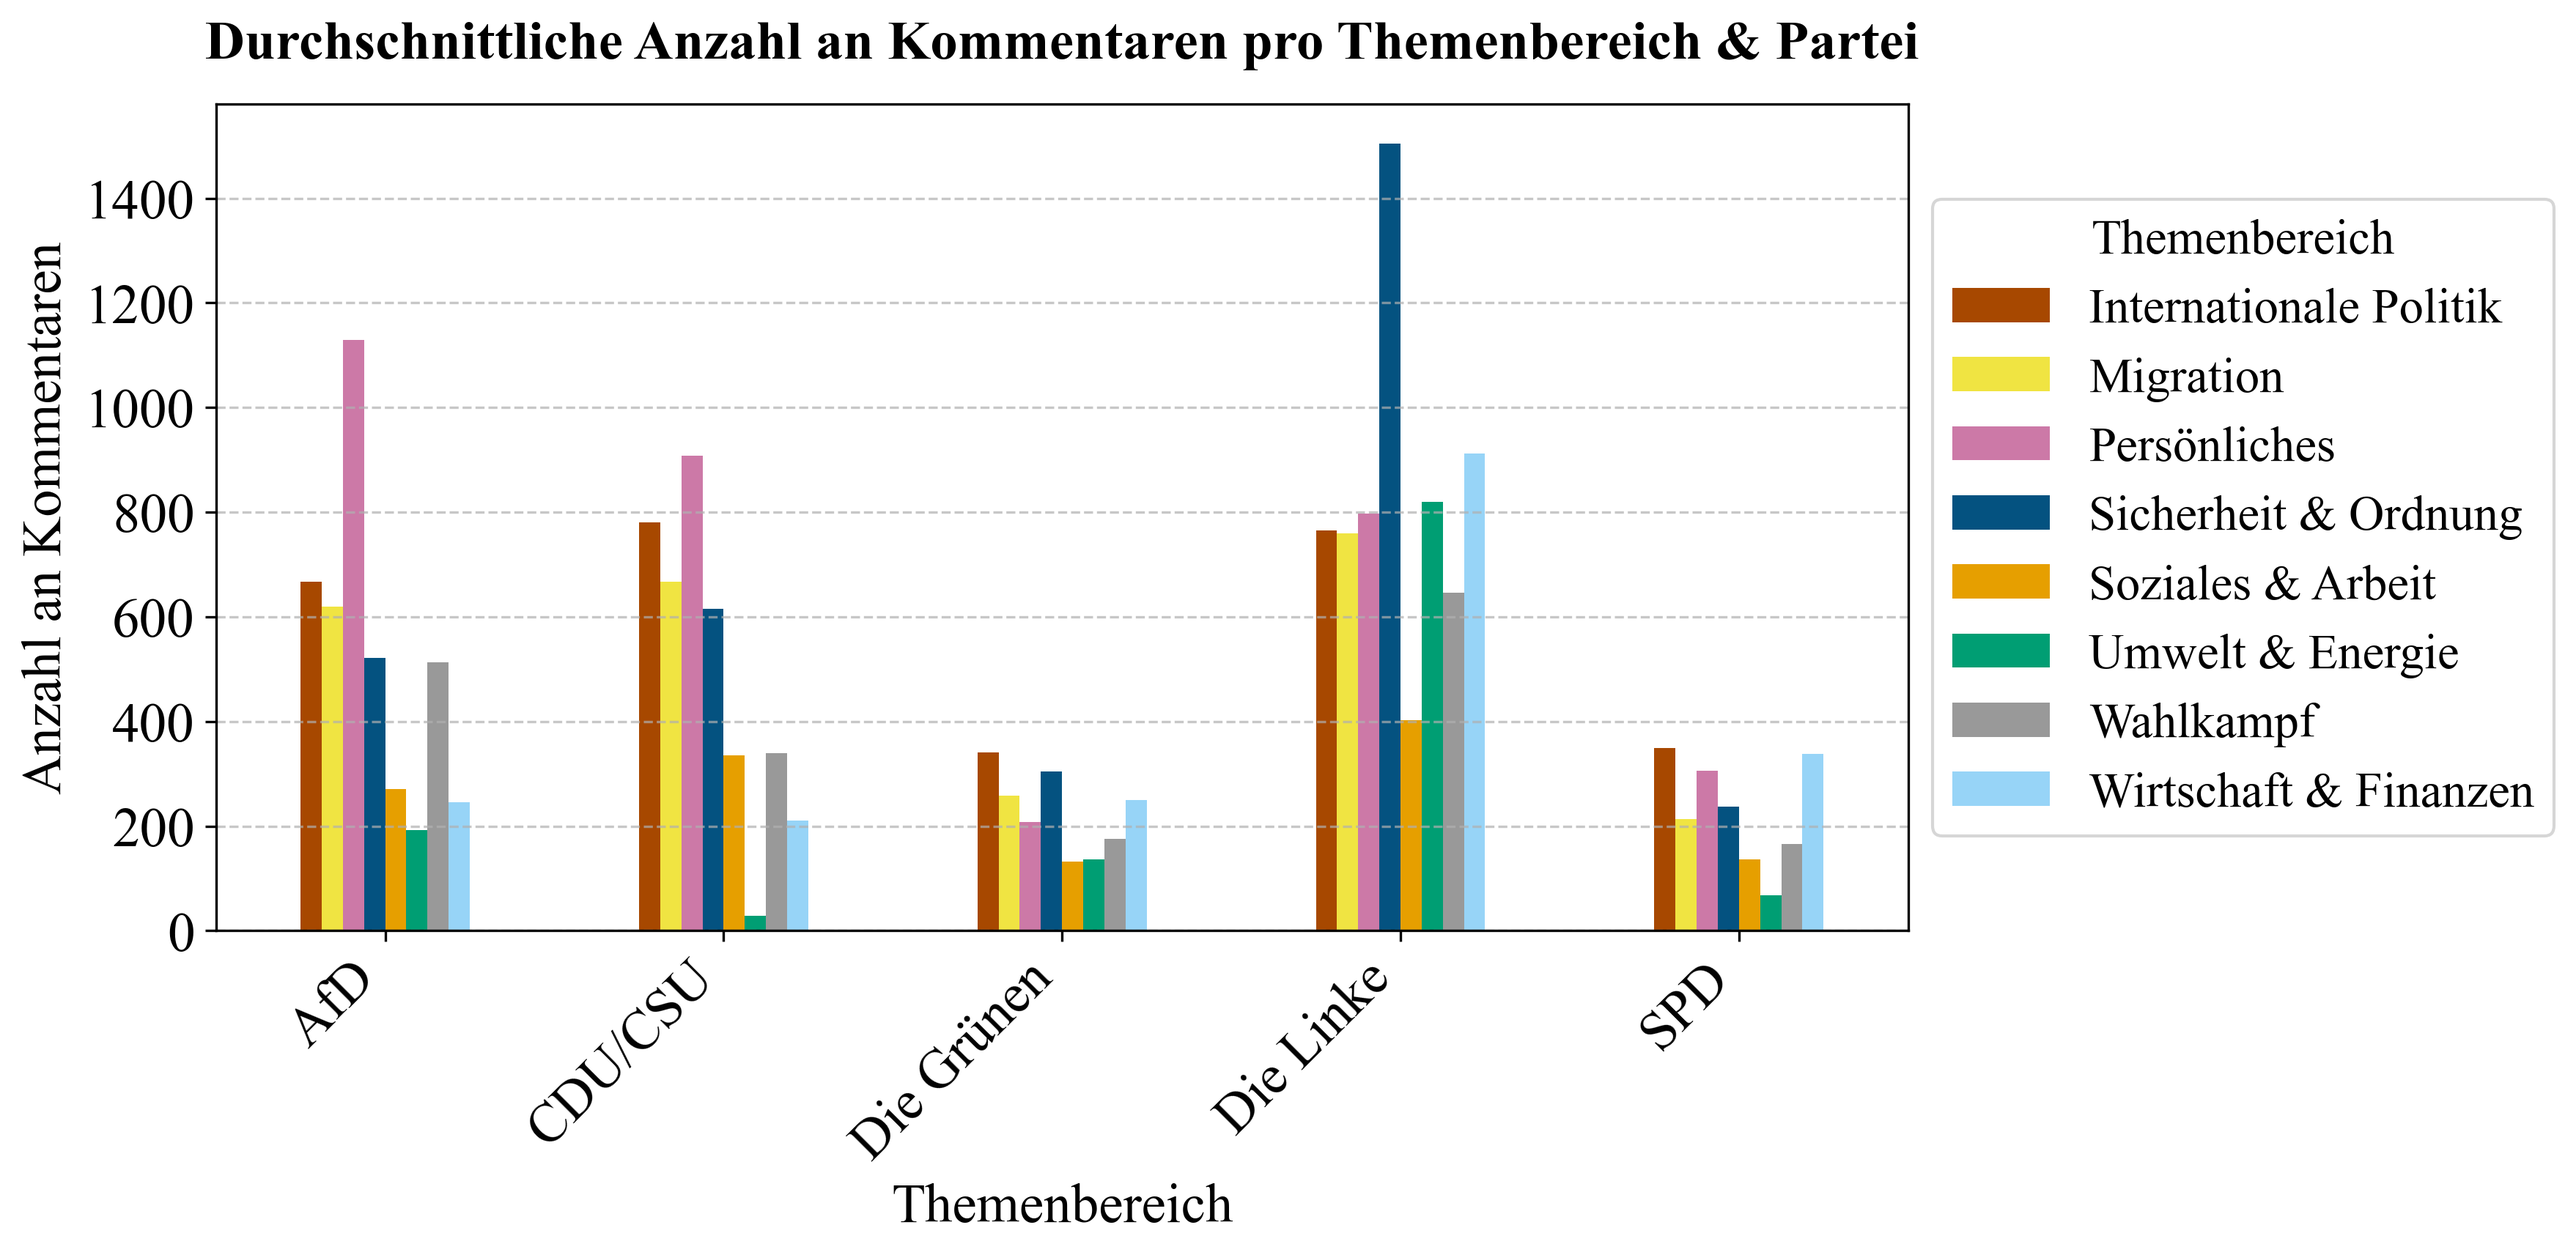
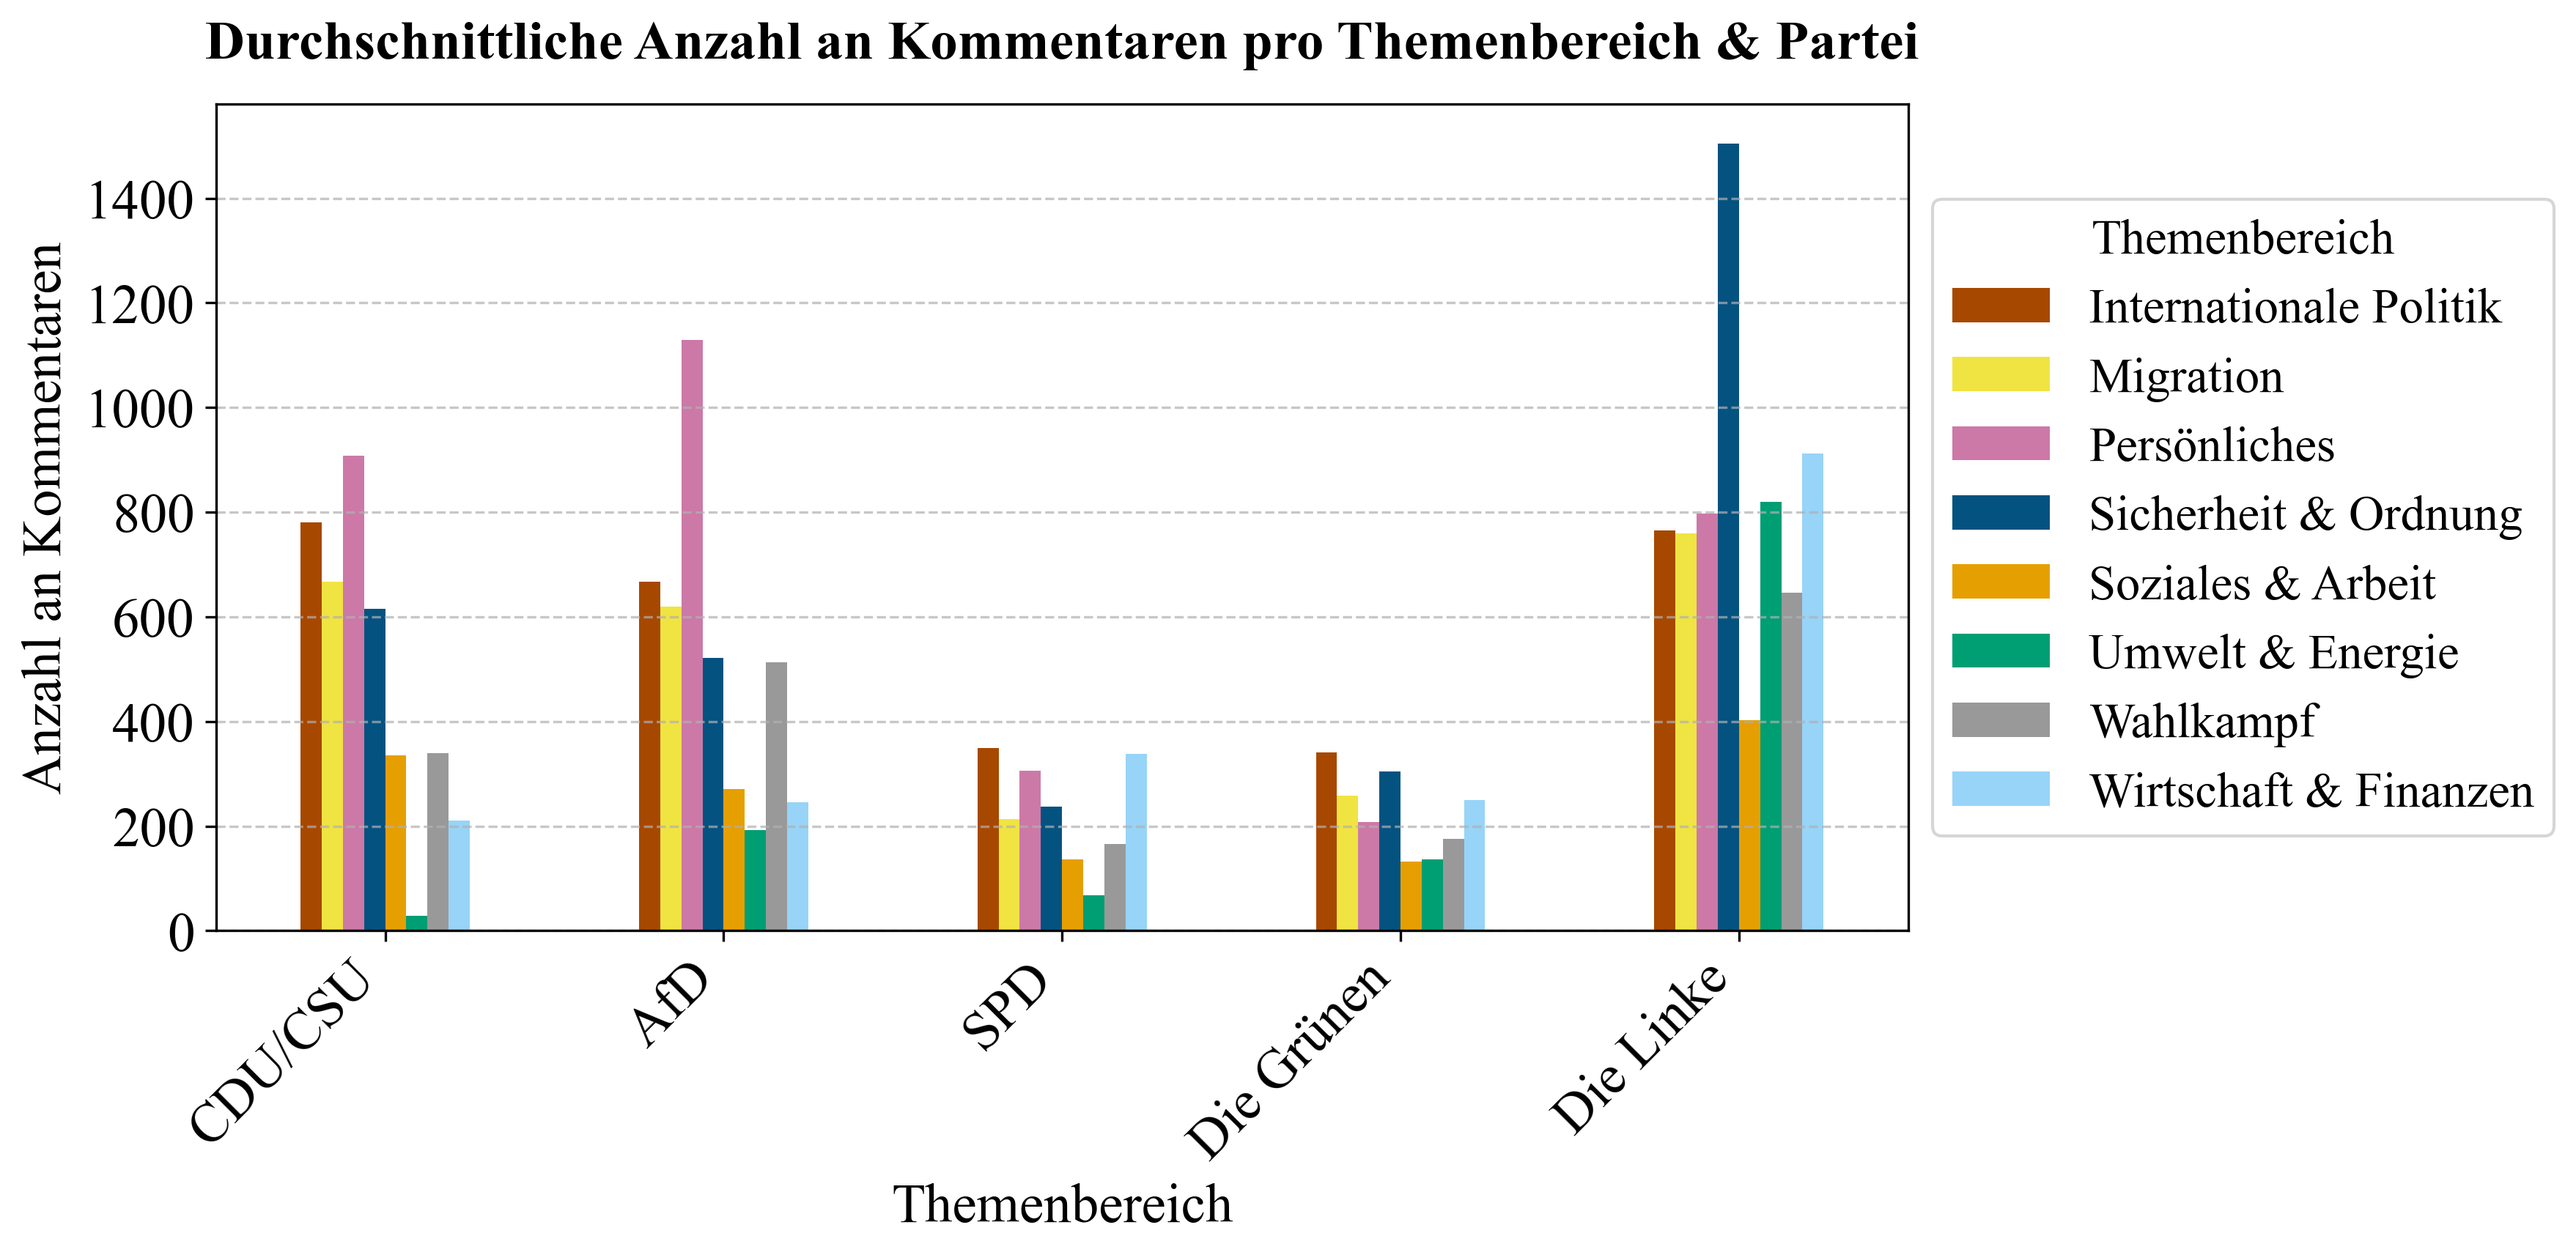
Updated code and additional plots

diff --git a/scripts/evaluation/sentiment_evaluation.py b/scripts/evaluation/sentiment_evaluation.py
@@ -149,11 +149,11 @@ def plot_heatmap(data, title, output_dir, filename):
     
     # labels for parties
     party_labels = {
-        "afd": "AfD",
         "cdu_csu": "CDU/CSU",
+        "afd": "AfD",
+        "spd": "SPD",
         "grüne": "Die Grünen",
-        "linke": "Die Linke",
-        "spd": "SPD"
+        "linke": "Die Linke"
     }
     data = data.rename(index=party_labels)
 
@@ -202,6 +202,9 @@ def analyze_sentiment_by_topic(df_sentiment_topic, output_dir):
         .unstack(fill_value=np.nan)
         .round(3)
     )
+    desired_order = ["cdu_csu", "afd", "spd", "grüne", "linke"]
+    sentiment_final = sentiment_final.reindex(desired_order)
+
     print("Mean final sentiment by topic and party:")
     print(sentiment_final)
     # create heatmap for final sentiment
@@ -215,6 +218,7 @@ def analyze_sentiment_by_topic(df_sentiment_topic, output_dir):
         .unstack(fill_value=np.nan)
         .round(3)
     )
+    sentiment_text = sentiment_text.reindex(desired_order)
 
     print("Text sentiment by topic and party:")
     print(sentiment_text)
@@ -229,6 +233,7 @@ def analyze_sentiment_by_topic(df_sentiment_topic, output_dir):
         .unstack(fill_value=np.nan)
         .round(3)
     )
+    sentiment_emoji = sentiment_emoji.reindex(desired_order)
     print("Emoji sentiment by topic and party:")
     print(sentiment_emoji)
     # create heatmap for emoji sentiment
@@ -243,11 +248,11 @@ def plot_emoji_sentiment_distribution(all_comments_df):
     }
 
     party_labels = {
-        "afd": "AfD",
         "cdu_csu": "CDU/CSU",
+        "afd": "AfD",
+        "spd": "SPD",
         "grüne": "Die Grünen",
-        "linke": "Die Linke",
-        "spd": "SPD"
+        "linke": "Die Linke"
     }
 
     # get distribution of emoji sentiment by party
@@ -268,6 +273,11 @@ def plot_emoji_sentiment_distribution(all_comments_df):
     # order columns
     ordered_cols = ["negativ", "neutral", "positiv"]
     emoji_sentiment_dist = emoji_sentiment_dist[ordered_cols]
+    emoji_sentiment_dist = emoji_sentiment_dist.reindex(party_labels.keys())
+
+    print("Emoji sentiment distribution:")
+    print(emoji_sentiment_dist)
+    
 
     # create bar plot, stacked by sentiment
     ax = emoji_sentiment_dist.plot(
@@ -316,11 +326,11 @@ def plot_text_sentiment_distribution(all_comments_df):
     }
 
     party_labels = {
-        "afd": "AfD",
         "cdu_csu": "CDU/CSU",
+        "afd": "AfD",
+        "spd": "SPD",
         "grüne": "Die Grünen",
-        "linke": "Die Linke",
-        "spd": "SPD"
+        "linke": "Die Linke"
     }
 
     # get text sentiment distribution by party
@@ -338,9 +348,13 @@ def plot_text_sentiment_distribution(all_comments_df):
         "positive": "positiv"
     }, inplace=True)
 
+    print("Text sentiment distribution")
+    print(sentiment_dist)
+
     # order columns
     ordered_cols = ["negativ", "neutral", "positiv"]
     sentiment_dist = sentiment_dist.reindex(columns=ordered_cols)
+    sentiment_dist = sentiment_dist.reindex(party_labels.keys())
 
     # get party names for the ticks
     tick_positions = range(len(sentiment_dist.index))
@@ -390,11 +404,11 @@ def plot_final_sentiment_distribution(all_comments_df_valid):
     }
 
     party_labels = {
-        "afd": "AfD",
         "cdu_csu": "CDU/CSU",
+        "afd": "AfD",
+        "spd": "SPD",
         "grüne": "Die Grünen",
-        "linke": "Die Linke",
-        "spd": "SPD"
+        "linke": "Die Linke"
     }
 
     # get the final sentiment label with tolerance of 0.2
@@ -413,6 +427,7 @@ def plot_final_sentiment_distribution(all_comments_df_valid):
 
     ordered_cols = ["negativ", "neutral", "positiv"]
     final_sentiment_dist = final_sentiment_dist.reindex(columns=ordered_cols)
+    final_sentiment_dist = final_sentiment_dist.reindex(party_labels.keys())
 
     tick_positions = range(len(final_sentiment_dist.index))
     party_names = [party_labels.get(party, party) for party in final_sentiment_dist.index]
@@ -583,10 +598,25 @@ def plot_engagement_vs_sentiment(all_comments_df_valid, output_dir="plots/sentim
     plt.close()
 
 def show_emoji_usage(all_comments_df):
-    """Shows the share of comments with specific heart emojis by party."""
-    all_comments_df["has_emoji"] = ~all_comments_df["emoji_sentiment"].isna()
+    """Shows share of comments with emoji and the share of comments with specific heart emojis by party."""
+    # compute share of comments with at least one emoji
+    # convert extracted emojis column
+    all_comments_df["extracted_emojis"] = all_comments_df["extracted_emojis"].apply(
+        lambda x: ast.literal_eval(x) if isinstance(x, str) and x.startswith("[") else x
+    )
+    all_comments_df["has_emoji"] = all_comments_df["extracted_emojis"].apply(lambda x: isinstance(x, list) and len(x) > 0)
+    emoji_comment_share = (
+        all_comments_df
+        .groupby("party")["has_emoji"]
+        .mean()
+        .reset_index()
+        .sort_values("party")
+    )
+    emoji_comment_share["emoji_comment_percent"] = (emoji_comment_share["has_emoji"] * 100).round(2)
+    print("Share of comments with emoji")
+    print(emoji_comment_share)
 
-    # share by party
+    # compute share of hearts
     heart_cols = ["has_blue_heart", "has_green_heart", "has_red_heart", "has_pink_heart"]
     emoji_comment_share = (
         all_comments_df

diff --git a/scripts/evaluation/helper_plots.py b/scripts/evaluation/helper_plots.py
@@ -1,4 +1,5 @@
 import matplotlib.pyplot as plt
+from graphviz import Digraph
 
 plt.rcParams.update({
     "font.family": "serif",
@@ -6,36 +7,43 @@ plt.rcParams.update({
     "font.size": 18
 })
 
+def create_election_result_plot():
+    # Data
+    parties = ["CDU", "AfD", "SPD", "Grüne", "Linke", "CSU", "SSW", "Sonstige"]
+    percentages = [22.6, 20.8, 16.4, 11.6, 8.8,6.0, 0.2, 13.7]           # Current election results
+    delta = [+3.6, +10.4, -9.3, -3.1, +3.9, +0.8, +0.0]               # Change compared to previous election
+    colors = [
+        "#000000", "#56B4E9", "#D00000", "#00B140", 
+        "#E10098", "#00008B", "#FFD700", "#C1C1C1"
+    ]
 
-# Data
-parties = ["CDU", "AfD", "SPD", "Grüne", "Linke", "CSU", "SSW", "Sonstige"]
-percentages = [22.6, 20.8, 16.4, 11.6, 8.8,6.0, 0.2, 13.7]           # Current election results
-delta = [+3.6, +10.4, -9.3, -3.1, +3.9, +0.8, +0.0]               # Change compared to previous election
-colors = [
-    "#000000", "#56B4E9", "#D00000", "#00B140", 
-    "#E10098", "#00008B", "#FFD700", "#C1C1C1"
-]
+    # Create figure and bars
+    plt.figure(figsize=(10, 6))
+    bars = plt.bar(parties, percentages, color=colors, edgecolor='black')
 
-# Create figure and bars
-plt.figure(figsize=(10, 6))
-bars = plt.bar(parties, percentages, color=colors, edgecolor='black')
+    # Add text above bars: percentage + delta
+    for bar, pct, d in zip(bars, percentages, delta):
+        x = bar.get_x() + bar.get_width() / 2
+        y = bar.get_height()
 
-# Add text above bars: percentage + delta
-for bar, pct, d in zip(bars, percentages, delta):
-    x = bar.get_x() + bar.get_width() / 2
-    y = bar.get_height()
+        # Percent value
+        plt.text(x, y + 1.8, f"{pct:.1f}%", ha='center', va='bottom', fontsize=16, fontweight='bold')
 
-    # Percent value
-    plt.text(x, y + 1.8, f"{pct:.1f}%", ha='center', va='bottom', fontsize=16, fontweight='bold')
+        # Change from previous election
+        plt.text(x, y + 0.5, f"{d:+.1f}%", ha='center', va='bottom', fontsize=16, color='gray')
 
-    # Change from previous election
-    plt.text(x, y + 0.5, f"{d:+.1f}%", ha='center', va='bottom', fontsize=16, color='gray')
+    # Chart formatting
+    plt.ylabel("Stimmenanteil (%)")
+    plt.xlabel("Partei")
+    plt.title("Wahlergebnisse der Bundestagswahl 2025 (Zweitstimme)", fontsize=18, fontweight='bold')
+    plt.ylim(0, max(percentages) + 5)
+    plt.tight_layout()
+    plt.savefig("plots/wahlergebnis", bbox_inches="tight", dpi=300)
 
-# Chart formatting
-plt.ylabel("Stimmenanteil (%)")
-plt.xlabel("Partei")
-plt.title("Wahlergebnisse der Bundestagswahl 2025 (Zweitstimme)", fontsize=18, fontweight='bold')
-plt.ylim(0, max(percentages) + 5)
-plt.tight_layout()
-plt.savefig("plots/wahlergebnis", bbox_inches="tight", dpi=300)
-plt.show()
+def main():
+    create_election_result_plot()
+
+
+
+if __name__ == "__main__":
+    main()

diff --git a/scripts/evaluation/descriptive_analytics.py b/scripts/evaluation/descriptive_analytics.py
@@ -99,7 +99,7 @@ def plot_videos_per_party(all_df, plot_dir):
 
 def plot_metrics_rate(all_df, plot_dir):
     """Plots the average like, comment, and share rates per view for each party."""
-    parties = ["afd", "cdu_csu", "gruene", "linke", "spd"]
+    parties = ["cdu_csu", "afd", "spd", "gruene", "linke"]
     labels = ["AfD", "CDU/CSU", "Grüne", "Linke", "SPD"]
 
     # get metrics per party
@@ -179,13 +179,13 @@ def plot_time_development(all_df, plot_dir):
     videos_per_week_party = all_df.groupby(["week", "party"]).size().unstack(fill_value=0)
     videos_per_week_party.index = videos_per_week_party.index.to_timestamp()
 
-    parties = ["afd", "cdu_csu", "gruene", "linke", "spd"]
+    parties = ["cdu_csu", "afd", "spd", "gruene", "linke"]
     colors = {
-        "afd": "#56B4E9",
         "cdu_csu": "#000000",
+        "afd": "#56B4E9",
+        "spd": "#D00000",
         "gruene": "#00B140",
         "linke": "#E10098",
-        "spd": "#D00000"
     }
     legend_labels = {
         "afd": "AfD",
@@ -228,10 +228,13 @@ def plot_weekly_comments(df, output_path):
     grouped = df.groupby(["week", "party"]).size().unstack(fill_value=0)
     grouped.index = grouped.index.to_timestamp()
 
-    parties = ["afd", "cdu_csu", "gruene", "linke", "spd"]
+    parties = ["cdu_csu", "afd", "spd", "gruene", "linke"]
     colors = {
-        "afd": "#56B4E9", "cdu_csu": "#000000", "gruene": "#00B140",
-        "linke": "#E10098", "spd": "#D00000"
+        "cdu_csu": "#000000",
+        "afd": "#56B4E9",
+        "spd": "#D00000",
+        "gruene": "#00B140",
+        "linke": "#E10098",
     }
     legend_labels = {
         "afd": "AfD", "cdu_csu": "CDU/CSU", "gruene": "Grüne",
@@ -294,6 +297,7 @@ def save_account_stats(all_df, results_dir):
             videos_per_account = party_df.groupby("username").size()
             avg_videos_per_account = videos_per_account.mean()
             active_accounts = videos_per_account.count()
+            print(f"Videos of {party}: {videos_per_account.sum()}")
         else:
             avg_videos_per_account = 0
             active_accounts = 0

diff --git a/scripts/evaluation/topic_evaluation.py b/scripts/evaluation/topic_evaluation.py
@@ -496,7 +496,7 @@ def plot_engagement_by_party(by_party_df, output_dir):
     os.makedirs(output_dir, exist_ok=True)
 
     # colors and labels as before
-    parteien = ["AfD", "CDU_CSU", "Grüne", "Linke", "SPD"]
+    parties = ["CDU_CSU", "AfD", "SPD", "Grüne", "Linke"]
     topic_colors = {
         "Soziales & Arbeit": "#E69F00",     
         "Wirtschaft & Finanzen": "#97D4F7",    
@@ -508,11 +508,11 @@ def plot_engagement_by_party(by_party_df, output_dir):
         "Wahlkampf": "#999999"     
     }
     legenden_labels = {
-        "AfD": "AfD",
         "CDU_CSU": "CDU/CSU",
+        "AfD": "AfD",
+        "SPD": "SPD",
         "Grüne": "Die Grünen",
-        "Linke": "Die Linke",
-        "SPD": "SPD"
+        "Linke": "Die Linke"
     }
 
     # Names for the metrics
@@ -528,7 +528,7 @@ def plot_engagement_by_party(by_party_df, output_dir):
         # create pivot table
         pivot = by_party_df.reset_index().pivot(index="partei", columns="topic_clean", values=metric)
         # get in right order
-        pivot = pivot.loc[parteien]
+        pivot = pivot.loc[parties]
         pivot.index = [legenden_labels.get(p, p) for p in pivot.index]
 
         ax = pivot.plot(
